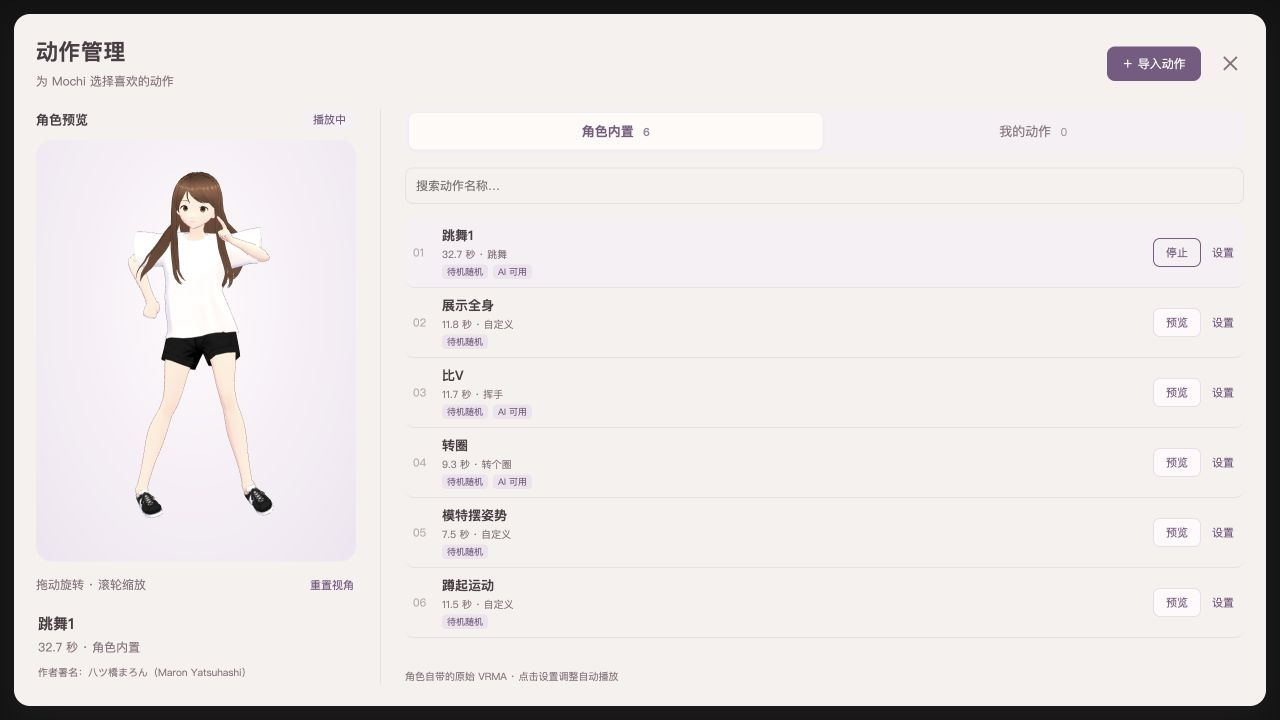
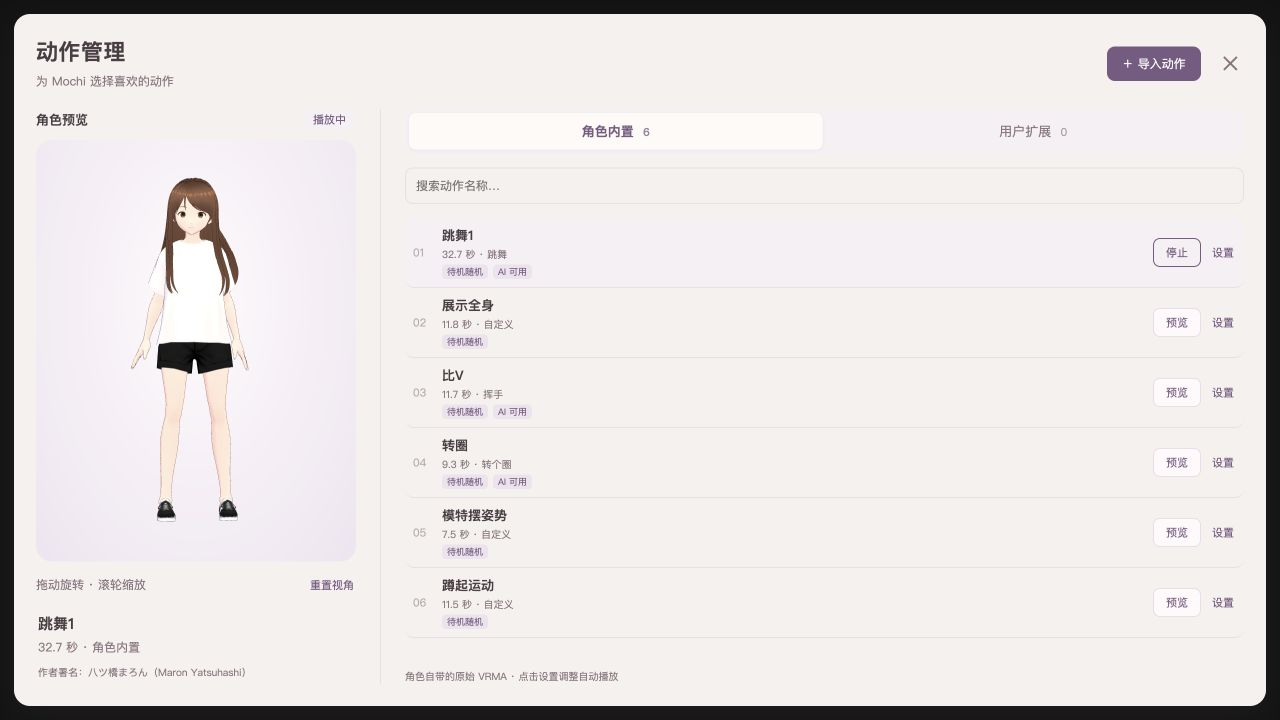
fix(desktop): honor imported motion categories and draft access

Changed region(s): [[0.0938, 0.2444, 0.2188, 0.7333], [0.7812, 0.1528, 0.8125, 0.2139]]

diff --git a/apps/desktop/src/components/MotionsPanel.tsx b/apps/desktop/src/components/MotionsPanel.tsx
@@ -24,6 +24,10 @@ const initialForm = {
   agentSelectable: false,
 };
 
+export function motionGroup(entry: Pick<MotionEntry, "source" | "category">): "builtin" | "custom" {
+  return entry.source === "builtin" || entry.category === "builtin" ? "builtin" : "custom";
+}
+
 export function MotionsPanel({ onClose }: MotionsPanelProps) {
   const hostRef = useRef<HTMLDivElement>(null);
   const stageRef = useRef<VrmStage | null>(null);
@@ -202,9 +206,11 @@ export function MotionsPanel({ onClose }: MotionsPanelProps) {
       setFile(null);
       setForm(initialForm);
       setShowImport(false);
-      setTab("custom");
+      setTab(form.category);
       setSearch("");
-      setNotice("动作已加入我的动作，可以点击预览。");
+      setNotice(
+        `动作已加入${form.category === "builtin" ? "角色内置" : "用户扩展"}，可以点击预览。`,
+      );
       if (fileInputRef.current) fileInputRef.current.value = "";
       await refresh();
     } catch (err) {
@@ -251,8 +257,8 @@ export function MotionsPanel({ onClose }: MotionsPanelProps) {
     if (selected) setForm((old) => ({ ...old, label: selected.name.replace(/\.vrma$/i, "") }));
   }
 
-  const builtins = motions.filter((entry) => entry.source === "builtin");
-  const custom = motions.filter((entry) => entry.source !== "builtin");
+  const builtins = motions.filter((entry) => motionGroup(entry) === "builtin");
+  const custom = motions.filter((entry) => motionGroup(entry) === "custom");
   const visible = (tab === "builtin" ? builtins : custom).filter((entry) =>
     entry.label.toLowerCase().includes(search.trim().toLowerCase()),
   );
@@ -314,7 +320,7 @@ export function MotionsPanel({ onClose }: MotionsPanelProps) {
               <strong>{selected?.label ?? skin?.name ?? "Mochi"}</strong>
               <span className="motions__hint">
                 {selected
-                  ? `${(selected.durationMs / 1000).toFixed(1)} 秒 · ${selected.source === "builtin" ? "角色内置" : "我的动作"}`
+                  ? `${(selected.durationMs / 1000).toFixed(1)} 秒 · ${motionGroup(selected) === "builtin" ? "角色内置" : "用户扩展"}`
                   : "选择右侧动作，看看角色的表现"}
               </span>
               {selected?.credit ? (
@@ -347,7 +353,7 @@ export function MotionsPanel({ onClose }: MotionsPanelProps) {
                     setDeleting(null);
                   }}
                 >
-                  我的动作 <span>{custom.length}</span>
+                  用户扩展 <span>{custom.length}</span>
                 </button>
               </div>
               <input
@@ -361,7 +367,7 @@ export function MotionsPanel({ onClose }: MotionsPanelProps) {
                 className="motions__scroll"
                 id="motion-list"
                 role="tabpanel"
-                aria-label={tab === "builtin" ? "角色内置" : "我的动作"}
+                aria-label={tab === "builtin" ? "角色内置" : "用户扩展"}
               >
                 {!visible.length ? (
                   <div className="motions__empty">
@@ -465,9 +471,26 @@ export function MotionsPanel({ onClose }: MotionsPanelProps) {
               </p>
             </div>
             <div className="motions__import-pane" hidden={!showImport}>
-              <h3>导入到我的动作</h3>
+              <h3>导入动作</h3>
               <p className="motions__hint">选择下载并解压的 .vrma 文件，保留原有动作和时长。</p>
               <div className="motions__import">
+                <label>
+                  动作分类
+                  <select
+                    className="motions__input"
+                    aria-label="动作分类"
+                    value={form.category}
+                    onChange={(e) =>
+                      setForm((old) => ({
+                        ...old,
+                        category: e.target.value as "builtin" | "custom",
+                      }))
+                    }
+                  >
+                    <option value="builtin">角色内置</option>
+                    <option value="custom">用户扩展</option>
+                  </select>
+                </label>
                 <label className="motions__file">
                   VRMA 文件
                   <input

diff --git a/apps/desktop/src/components/MotionsPanel.test.ts b/apps/desktop/src/components/MotionsPanel.test.ts
@@ -1,12 +1,25 @@
 import { describe, expect, it } from "vitest";
 import { createElement } from "react";
 import { renderToStaticMarkup } from "react-dom/server";
-import { MotionsPanel } from "./MotionsPanel";
+import { MotionsPanel, motionGroup } from "./MotionsPanel";
 
 describe("motion import purpose", () => {
   it("starts with custom purpose rather than silently claiming wave", () => {
     const html = renderToStaticMarkup(createElement(MotionsPanel, { onClose: () => undefined }));
     expect(html).toContain('<option value="" selected="">自定义动作</option>');
     expect(html).not.toContain('<option value="wave" selected="">');
+  });
+});
+
+describe("motion grouping", () => {
+  it("keeps user-imported role defaults in the built-in group", () => {
+    expect(motionGroup({ source: "user", category: "builtin" })).toBe("builtin");
+    expect(motionGroup({ source: "builtin" })).toBe("builtin");
+    expect(motionGroup({ source: "user", category: "custom" })).toBe("custom");
+  });
+  it("offers both categories during import", () => {
+    const html = renderToStaticMarkup(createElement(MotionsPanel, { onClose: () => undefined }));
+    expect(html).toContain('<option value="builtin">角色内置</option>');
+    expect(html).toContain('<option value="custom" selected="">用户扩展</option>');
   });
 });
